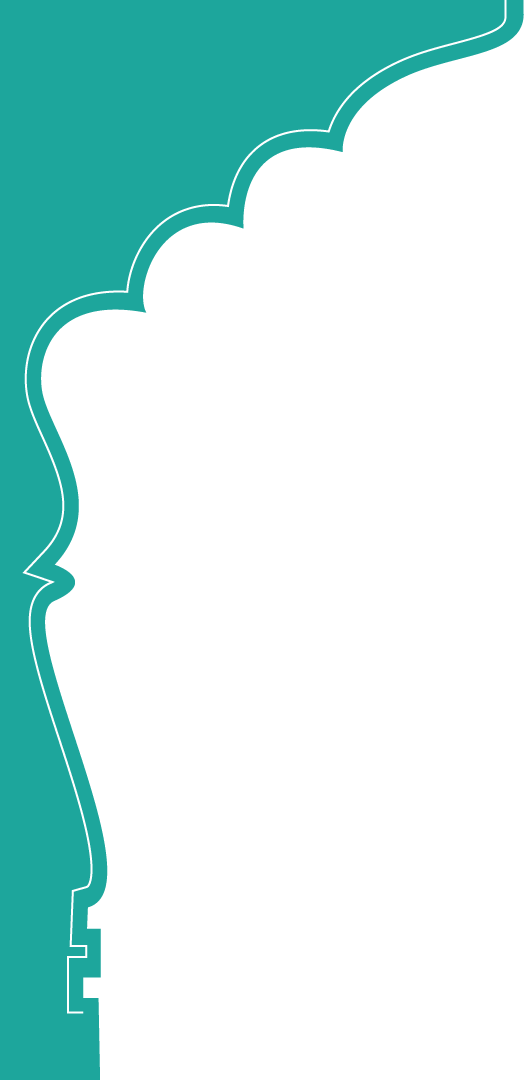
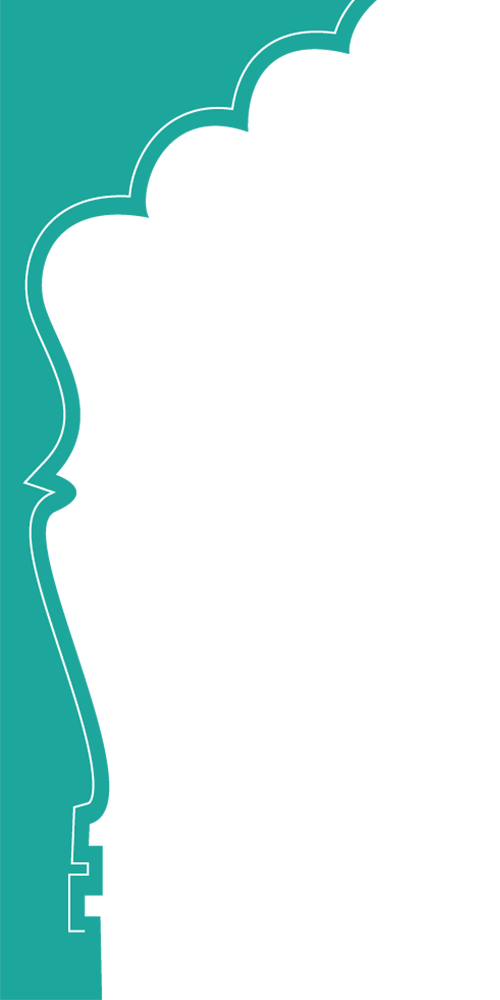
updated site images

Changed region(s): [[0.03, 0.0, 1.0, 1.0]]

diff --git a/demo/assets/style.css b/demo/assets/style.css
@@ -63,7 +63,7 @@ body{
     z-index: -1;
     position: absolute;
     left: 0;
-    top: -80px;
+    top: 0;
 }
 .style-right::after{
     content: '';
@@ -76,44 +76,19 @@ body{
     z-index: -1;
     position: absolute;
     right: 0;
-    top: -80px;
+    top: 0;
 }
-/*.style-left::before{
-    content: '';
-    background: url("img/site/elephant-left.png");
-    background-repeat: no-repeat;
-    background-size: 50% 100%;
-    width: 100%;
-    height: 100%;
-    z-index: -1;
-    position: absolute;
-    left: 0;
-    top: -80px;
-}
-.style-right::before{
-    content: '';
-    background: url("img/site/elephant-right.png");
-    background-repeat: no-repeat;
-    background-size: 50% 100%;
-    background-position: right;
-    width: 100%;
-    height: 100%;
-    z-index: -1;
-    position: absolute;
-    right: 0;
-    top: -80px;
-}*/
 .main-logo{
     display: inline-block;
 }
 #logo{
     max-width: 100%;
-    width: 35%;
+    width: 30%;
     margin-top: 50px;
     margin: 50px 30px 0 30px;
 }
 .jecrc-img, .dates-img{
-    width: 12%;
+    width: 10%;
     opacity: .7;
 }
 .explore-button{
@@ -124,7 +99,7 @@ body{
     top: 40%;
     cursor: pointer;
     display: inline-block;
-    width: 12%;
+    width: 10%;
     -webkit-transition: all 0.5s cubic-bezier(0.175, 0.885, 0.320, 1.275);
     transition: all 0.5s cubic-bezier(0.175, 0.885, 0.320, 1.275);
 }
